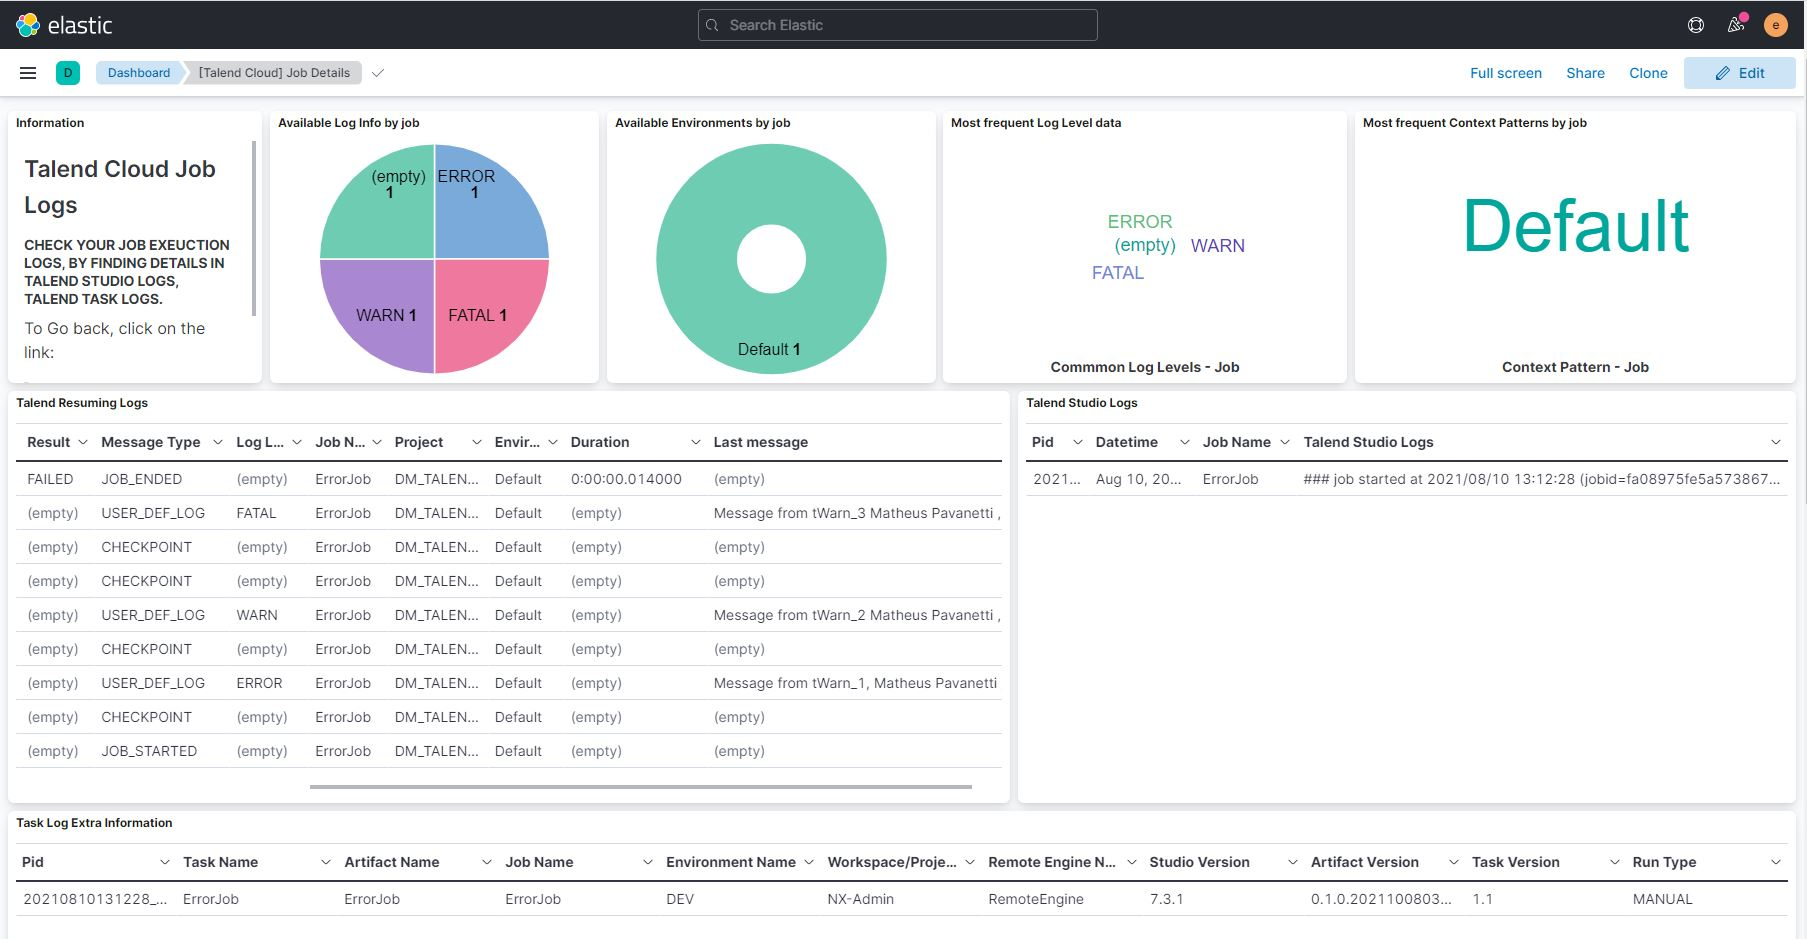
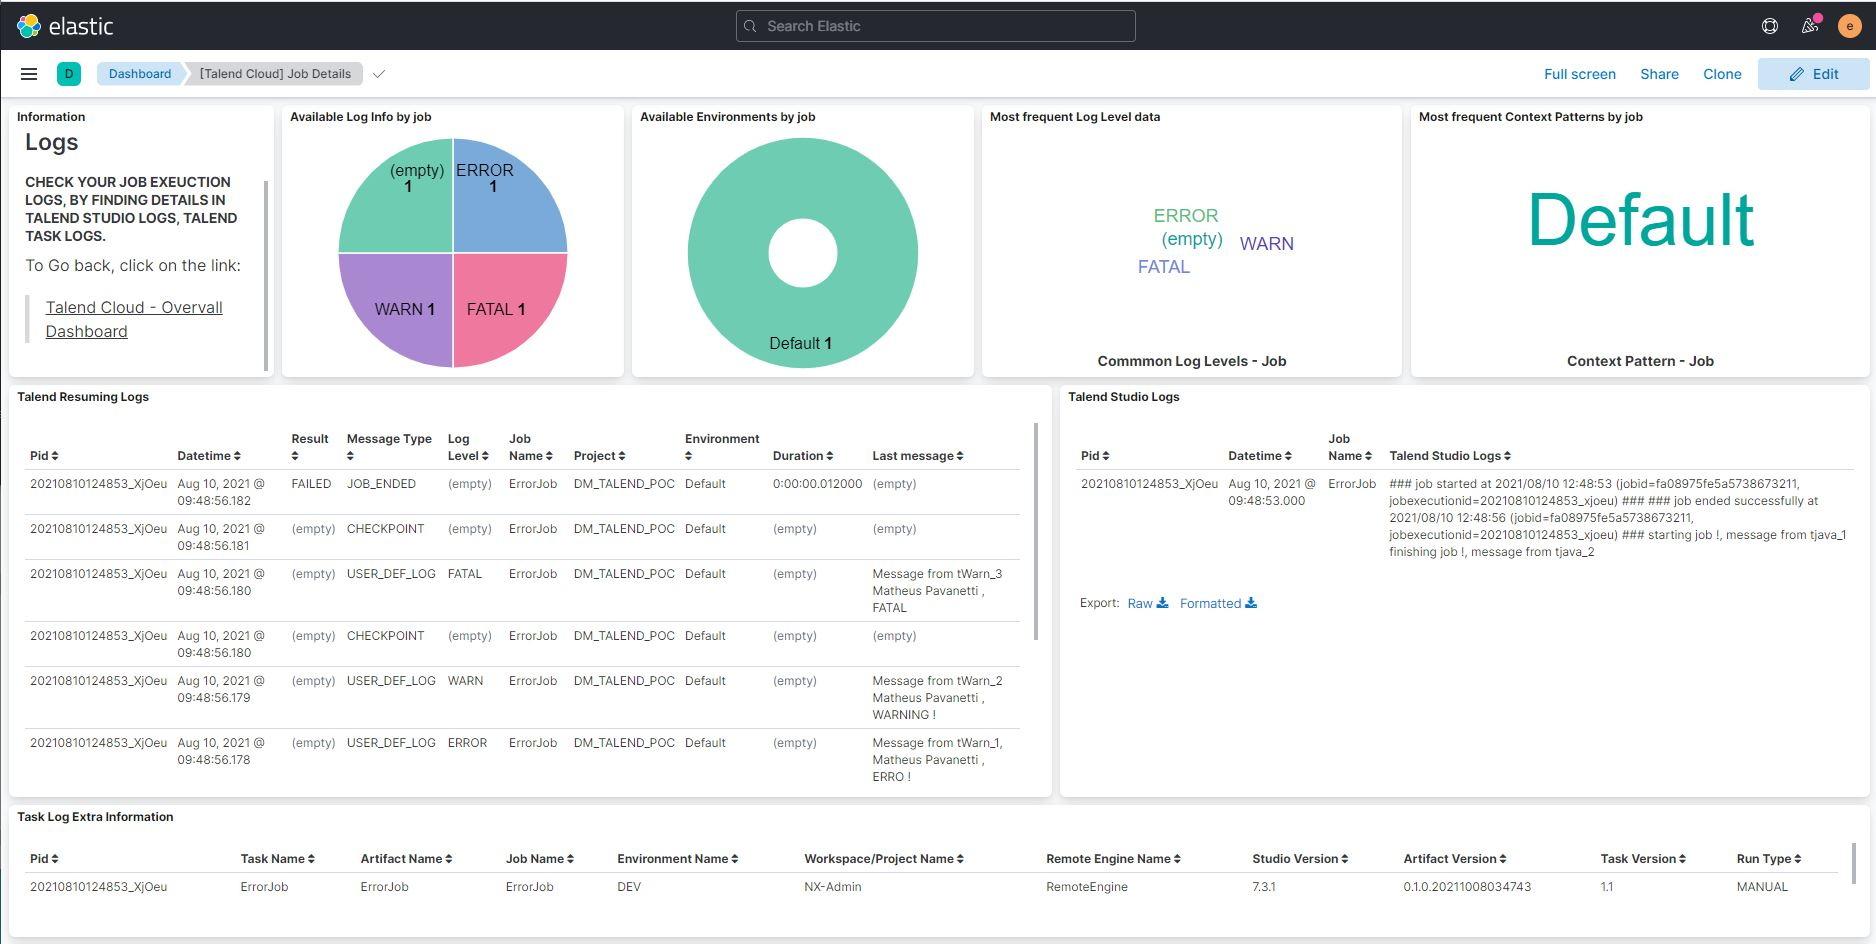
Changing README.md and changing screenshots

diff --git a/README.md b/README.md
@@ -44,14 +44,17 @@ Navigate to the agent folder Right click on the file stop_agent.bat **RUN AS ADM
 Navigate to the agent folder Right click on the file uninstall.bat **RUN AS ADMINISTRATOR**, otherwise it won't work, and hit enter once it finishes.
 
 ## Some Kibana Dashboards Screenshots
-Talend Logs Summary Dashboard
+- Talend Logs Summary Dashboard:
 ![Talend Summary Dashboard](img/SummaryDashboard.JPG)  
 
-Talend Job Details Dashboard
+- Talend Job Details Dashboard:
 ![Talend Job Details](img/JobDetailsDashboard.JPG)  
 
-Talend Studio logs (Inspect) 
+- Talend Studio logs (Inspect):
 ![Talend Studio Details](img/JobDetailsTalendStudio.JPG)  
+
+- Talend Cloud logs:
+![Talend Cloud Details](img/JobDetailsTalendCloudTask.JPG)  
 
 ## Kibana Recomendation
 I Personally prefer the legacy kibana datatable visualization mode, it's easier to see big column texts.  
